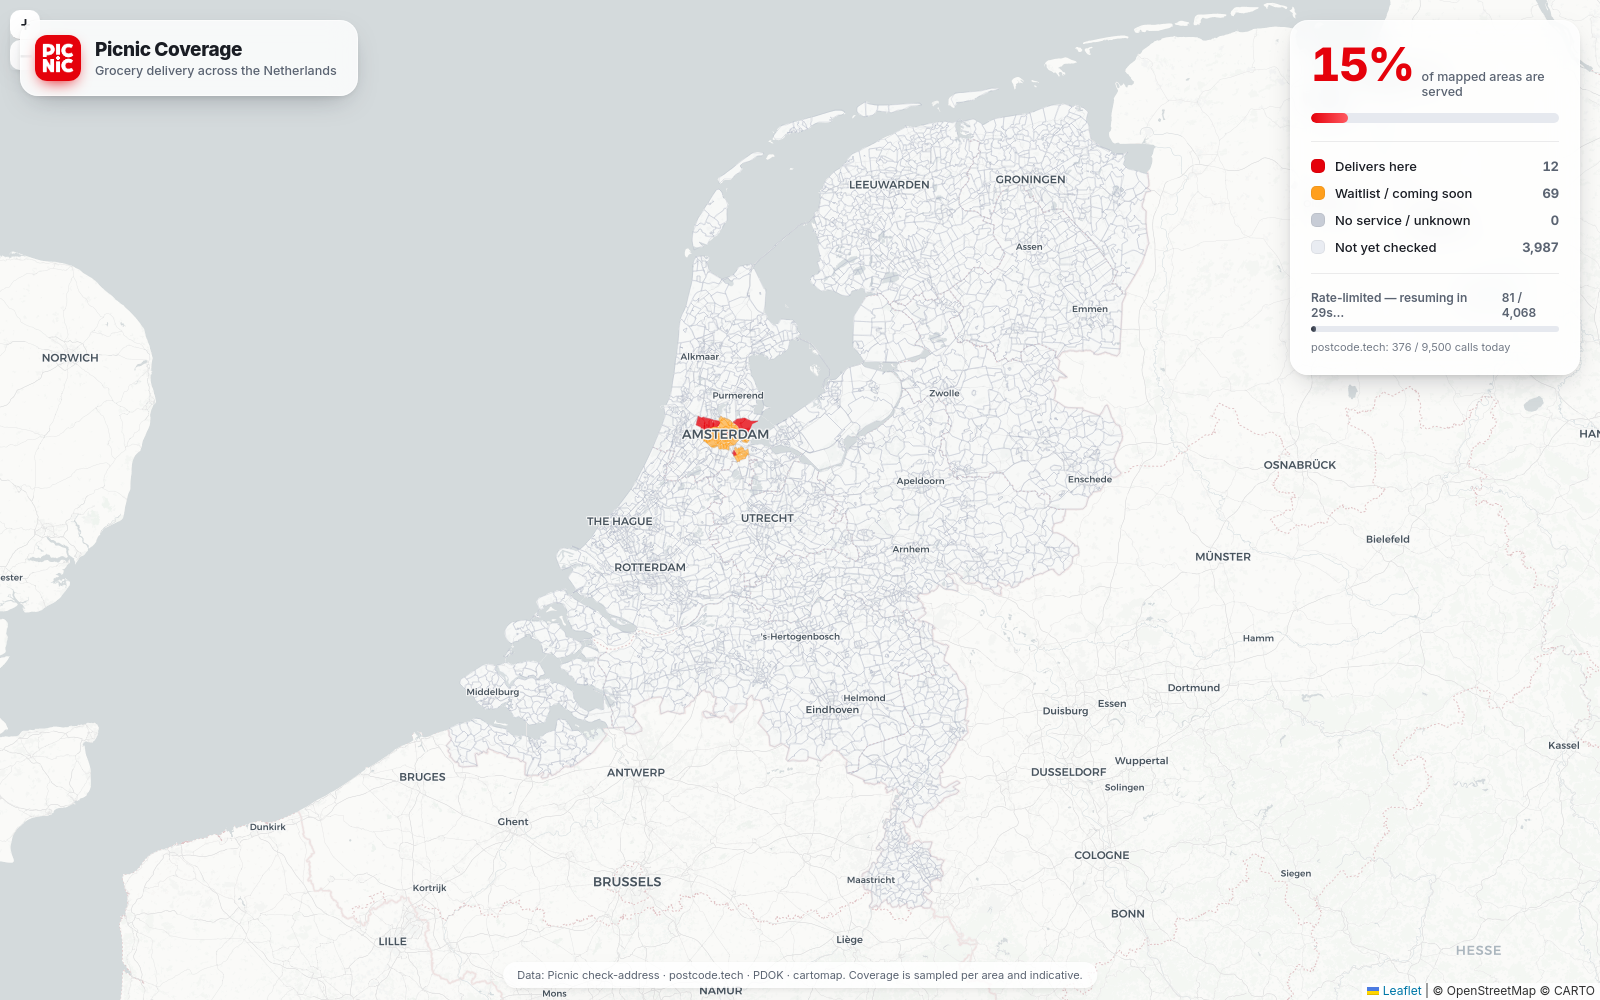
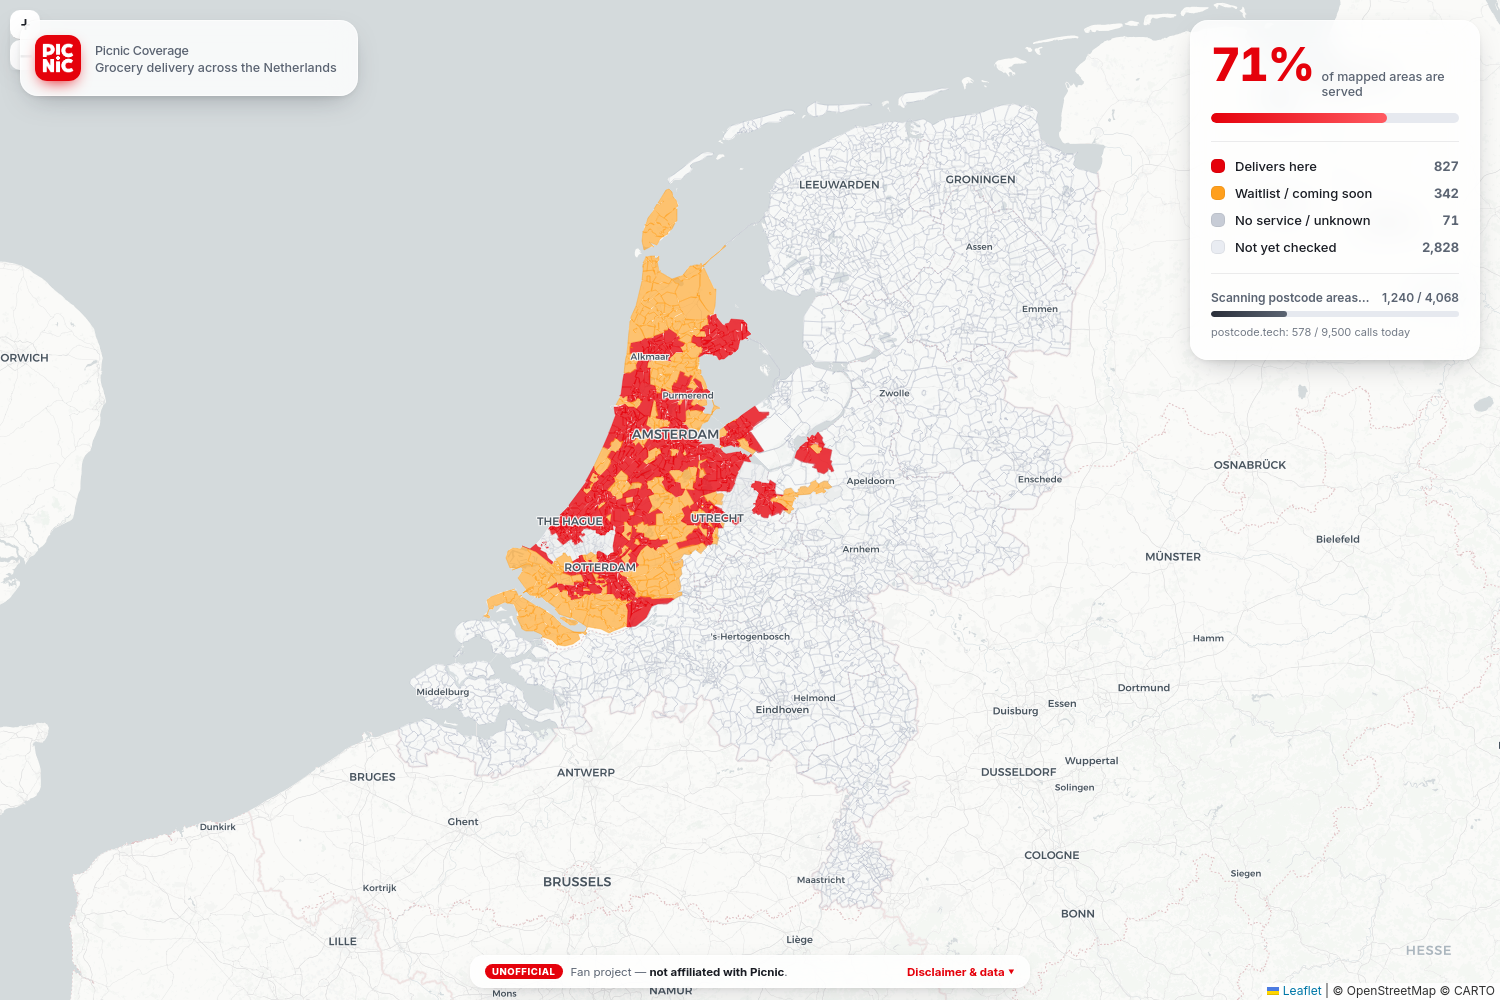
fix: correct waitlist_area logic and update README for clarity

diff --git a/src/sources.js b/src/sources.js
@@ -124,8 +124,12 @@ export async function checkPicnicCoverage(postcode, huisnummer) {
     return { status: 'error', raw: body };
   }
   if (status === 200 && body?.address) {
+    // NOTE: Picnic's `waitlist_area` is the OPPOSITE of what the name suggests.
+    // Empirically (confirmed against known delivery postcodes 1423/1433 and the
+    // whole Randstad core), waitlist_area=true marks an area Picnic ACTIVELY
+    // serves, while false marks a not-yet-served (join-the-waitlist) area.
     return {
-      status: body.waitlist_area ? 'waitlist' : 'covered',
+      status: body.waitlist_area ? 'covered' : 'waitlist',
       address: body.address,
       raw: body,
     };

diff --git a/README.md b/README.md
@@ -16,10 +16,12 @@ there — visualising Picnic's delivery coverage across the country.
 
 ## How it works
 
-Picnic's `check-address` endpoint tells you, for a *valid existing address*,
-whether that address is served (`waitlist_area: false`) or only on the waitlist
-(`waitlist_area: true`). To paint a whole PC4 area we need one real address
-inside it, so the pipeline per area is:
+Picnic's `check-address` endpoint returns a `waitlist_area` flag for a *valid
+existing address*. Counter-intuitively, **`waitlist_area: true` marks an area
+Picnic actively serves**, and `false` marks a not-yet-served (join-the-waitlist)
+area — the field name is the opposite of its real meaning (confirmed against
+known delivery postcodes and the Randstad core). To paint a whole PC4 area we
+need one real address inside it, so the pipeline per area is:
 
 | Step | Source | Purpose |
 |------|--------|---------|
@@ -36,8 +38,8 @@ the backend, so the map fills in **live** as areas are probed.
 
 | Colour | Meaning |
 |--------|---------|
-| 🔴 Picnic Red | Picnic **delivers here** (`waitlist_area: false`) |
-| 🟠 Amber | **Waitlist** / coming soon (`waitlist_area: true`) |
+| 🔴 Picnic Red | Picnic **delivers here** (`waitlist_area: true`) |
+| 🟠 Amber | **Waitlist** / coming soon (`waitlist_area: false`) |
 | ⚪ Grey | No service / address not resolvable |
 | ▫️ Faint | Not yet checked |
 